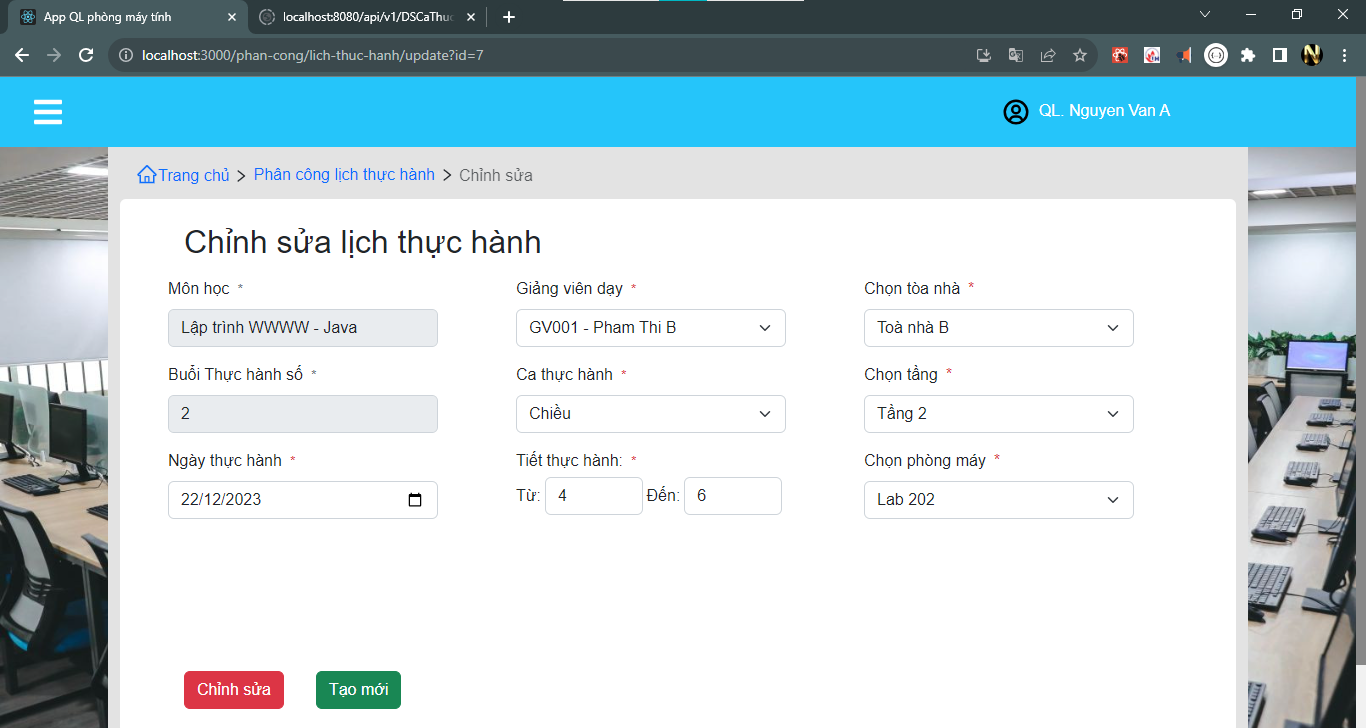
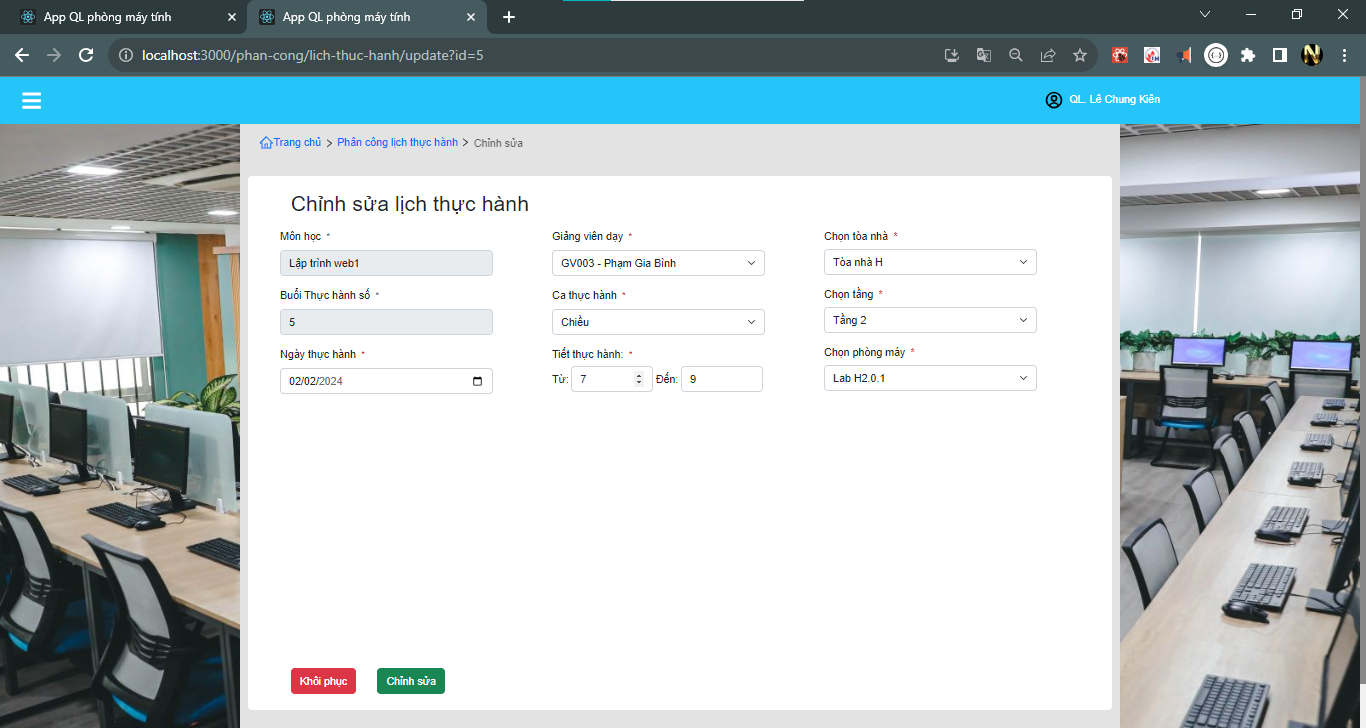
PageLich TH: finish update Lich TH api

diff --git a/src/components/layout/Edit/FormUpdateLichThucHanh.jsx b/src/components/layout/Edit/FormUpdateLichThucHanh.jsx
@@ -13,6 +13,7 @@ import {
   getAllDsPhongHocInMonHoc,
   getDSPhong_trungPM_MonHocApi3,
   getDsNgayTH,
+  updateLichThucHanh,
 } from "../../../redux/reducers/lichThucHanhReducer";
 
 //
@@ -118,8 +119,6 @@ export default function FormUpdateLichThucHanh() {
     }
     if (arrGiaoVien.length === 0) {
       dispatch(getAllGiaoVienApi);
-    } else {
-      objCaThucHanh.current.valueSelGiaoVien = arrGiaoVien[0].maGiaoVien;
     }
     // update arrPhongByMonHoc - gia tri ban dau là toàn bộ arrPhong
     // dispatch(getAllDsPhongHocInMonHoc);
@@ -136,6 +135,51 @@ export default function FormUpdateLichThucHanh() {
   }, []);
   //
   // handle
+  //
+  const handleSubmit = (e) => {
+    e.preventDefault();
+
+    //
+    let {
+      txtSoBuoiTH,
+      txtTietBD,
+      txtTietKT,
+      txtMonHoc,
+      valueSelGiaoVien,
+      valueSelTang,
+      valueSelPhongMay,
+      valueSelToaNha,
+      valueSelCaTH,
+      txtNgayTH,
+    } = objCaThucHanh.current;
+    //
+    let objMonHoc = objData_old.monHoc;
+    let objGiaoVien = arrGiaoVien.find((item) => {
+      return item.maGiaoVien == valueSelGiaoVien;
+    });
+    let objPhongMay = arrPhongMay.find((item) => {
+      return item.maPhong == valueSelPhongMay;
+    });
+    let tenCa = valueSelCaTH;
+    let tietBatDau = txtTietBD;
+    let tietKetThuc = txtTietKT;
+    let objData = {
+      maCa: objData_old.maCa,
+      ngayThucHanh: new Date(txtNgayTH),
+      tenCa,
+      tietBatDau,
+      tietKetThuc,
+      buoiSo: objData_old.buoiSo,
+      giaoVien: objGiaoVien,
+      phongMay: objPhongMay,
+      monHoc: objMonHoc,
+    };
+
+    // console.log(objCaThucHanh.current);
+    // console.log(objData);
+
+    dispatch(updateLichThucHanh(objData));
+  };
   //
   const handleChangeSelectPhongMay = (e) => {
     let value = e.target.value;
@@ -216,7 +260,36 @@ export default function FormUpdateLichThucHanh() {
   };
   ///
   const handleChangeSelectCaTH = (e) => {
-    objCaThucHanh.current.valueSelCaTH = e.target.value;
+    let { value } = e.target;
+
+    switch (value) {
+      case "sáng":
+        objCaThucHanh.current = {
+          ...objCaThucHanh.current,
+          valueSelCaTH: value,
+          txtTietBD: 1,
+          txtTietKT: 3,
+        };
+        break;
+      case "chiều":
+        objCaThucHanh.current = {
+          ...objCaThucHanh.current,
+          valueSelCaTH: value,
+          txtTietBD: 7,
+          txtTietKT: 9,
+        };
+        break;
+      case "tối":
+        objCaThucHanh.current = {
+          ...objCaThucHanh.current,
+          valueSelCaTH: value,
+          txtTietBD: 13,
+          txtTietKT: 15,
+        };
+        break;
+      default:
+        break;
+    }
 
     let text_err = "";
     if (checkDataTrungCa(objCaThucHanh.current, arrCaThucHanh)) {
@@ -466,7 +539,7 @@ export default function FormUpdateLichThucHanh() {
             >
               {/* Form add */}
               <form
-                // onSubmit={handleSubmit}
+                onSubmit={handleSubmit}
                 className="d-flex h-100 justify-content-between flex-column"
               >
                 {/* body */}
@@ -724,10 +797,10 @@ export default function FormUpdateLichThucHanh() {
                 {/* footer - form */}
                 <div className="">
                   <button type="reset" className="btn btn-danger mx-3">
-                    Chỉnh sửa
+                    Khôi phục
                   </button>
                   <button type="submit" className="btn btn-success mx-3">
-                    Tạo mới
+                    Chỉnh sửa
                   </button>
                 </div>
               </form>
@@ -781,13 +854,7 @@ const checkDataTrungCa = (objCaTH, arrCaThucHanh) => {
     } = e;
     let date_item_CaTH = new Date(ngayThucHanh);
     let sum_TietHoc_item = parseInt(tietKetThuc) - parseInt(tietBatDau);
-    console.log(
-      date_item_CaTH.getTime() === day_objCaTH.getTime() &&
-        tietBatDau == txtTietBD &&
-        sum_TietHoc_item === sum_TietHoc &&
-        giaoVien.maGiaoVien.includes(valueSelGiaoVien) &&
-        phongMay.maPhong === parseInt(valueSelPhongMay)
-    );
+
     if (
       date_item_CaTH.getTime() === day_objCaTH.getTime() &&
       tietBatDau == txtTietBD &&

diff --git a/src/redux/reducers/lichThucHanhReducer.jsx b/src/redux/reducers/lichThucHanhReducer.jsx
@@ -194,7 +194,26 @@ export const {
 export default lichThucHanhReducer.reducer;
 //
 // Call api +++++++++++++++++++++++++++++++++++++++++++++++++
-//
+
+export const updateLichThucHanh = (obj_lichTH) => {
+  return async (dispatch) => {
+    try {
+      await http.post("/LuuCaThucHanh", obj_lichTH);
+      dispatch(getAllCaThucHanhApi);
+
+      //
+      history.push("/phan-cong/lich-thuc-hanh");
+    } catch (error) {
+      alert('Lỗi server! Vui lòng quay lại sau.')
+      console.log(
+        "🚀 ~ file: lichThucHanhReducer.jsx:202 ~ updateLichThucHanh ~ error:",
+        error
+      );
+    }
+  };
+};
+
+// cai này dư
 export const getDsNgayTH = async (maMon) => {
   let arrData = [];
   try {
@@ -340,7 +359,7 @@ export const getDSPhong_trungPM_MonHocApi3 = (maMonHoc) => {
       //1.
       let resultMonHocPhanMem = await http.get(`/DSMonHocPhanMem/${maMonHoc}`);
       let arrPhanMemByMonHoc = [];
-      let result_arrPhongMay  = await http.get('/DSPhongMay2')
+      let result_arrPhongMay = await http.get("/DSPhongMay2");
       //
       resultMonHocPhanMem.data.forEach((e) => {
         arrPhanMemByMonHoc.push(e.phanMem);
@@ -374,7 +393,6 @@ export const getDSPhong_trungPM_MonHocApi3 = (maMonHoc) => {
       //
       dispatch(serArrPhanMemByIdMonHocAction(arrPhanMemByMonHoc));
       dispatch(serArrPhongByDSPhanMem_MonHocAction(arrPhongByMonHoc));
-
     } catch (error) {
       console.log(
         "🚀 ~ file: lichThucHanhReducer.jsx:197 ~ return ~ error:",

diff --git a/src/components/layout/Detail/ModalDetailLichThucHanh/ModalDetailLichThucHanh.jsx b/src/components/layout/Detail/ModalDetailLichThucHanh/ModalDetailLichThucHanh.jsx
@@ -13,6 +13,10 @@ export default function ModalDetailLichThucHanh() {
   const navigate = useNavigate();
   //
   let { objDetailCaTH } = useSelector((state) => state.lichThucHanhReducer);
+ 
+  if(objDetailCaTH == null || Object.keys(objDetailCaTH).length === 0) {
+    return <></>
+  }
 
   let {
     ngayThucHanh,
